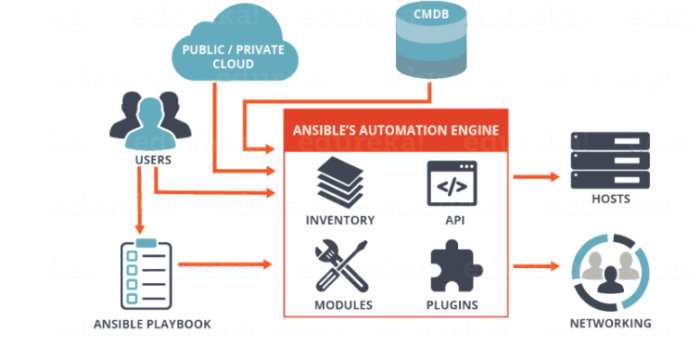
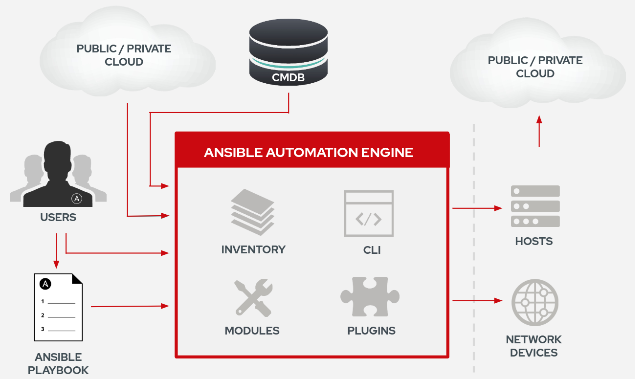
organize content

diff --git a/101/courses/101.md b/101/courses/101.md
@@ -1,10 +1,20 @@
 # 101 - Ansible Crash-Course Workshop
 
-### Introduction
+## Introduction
+The 101 is a run through Ansible components providing the necessary hands-on to build automation with a good set of principles and best practices.
+
+### Principles 
 Some principles to keep in mind during this workshop and as takeaways:
 * automation should be considered as coding and as such the content should be hosted on version-control system like Git. 
 * better have a KISS than a sorry... Keep It Stupid Simple; start with basic playbook and static inventory then fluff© it up
 * write-test-fix loop (think DevOps) then refactor and modularize later
 
-
 ### what's Ansible?
+![preview](ansible_arch.png)
+
+## Let's start!
+### It ain't gonna magically connect!
+
+
+### Inventories
+Ansible inventories are much more than just a list of target to run automation on.
